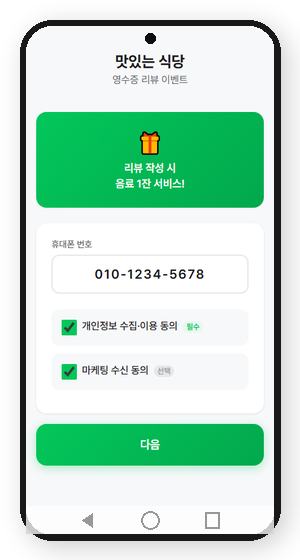
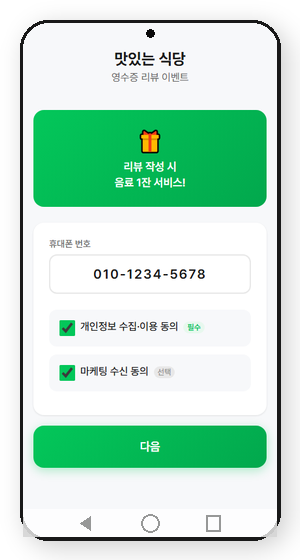
색상 통일: 플마 초록색(#03C75A)으로 변경
- primary 색상을 파란색에서 초록색으로
- 화살표 위치 조정
- screenshot-frame 배경 투명화

Claude-Session: https://claude.ai/code/session_01RtJRTMwqEprTTZv2YxTHB7

diff --git a/receipt-review.html b/receipt-review.html
@@ -12,9 +12,9 @@
 <link rel="stylesheet" href="https://fonts.googleapis.com/css2?family=Noto+Sans+KR:wght@400;500;600;700;800&display=swap">
 <style>
 :root {
-  --primary: #2563EB;
-  --primary-dark: #1d4ed8;
-  --primary-light: #eff6ff;
+  --primary: #03C75A;
+  --primary-dark: #02a54b;
+  --primary-light: #e8f8ef;
   --bg: #ffffff;
   --bg-gray: #f8f9fa;
   --text: #1a1a1a;
@@ -24,7 +24,6 @@
   --shadow-sm: 0 2px 8px rgba(0,0,0,0.04);
   --shadow-md: 0 8px 30px rgba(0,0,0,0.08);
   --shadow-lg: 0 20px 60px rgba(0,0,0,0.12);
-  --accent: #03C75A;
 }
 * { box-sizing: border-box; margin: 0; padding: 0; }
 body {
@@ -304,18 +303,17 @@ section {
 .screenshot-item::after {
   content: '→';
   position: absolute;
-  right: -15px;
-  top: 50%;
+  right: -20px;
+  top: 45%;
   transform: translateY(-50%);
   color: var(--primary);
-  font-size: 1.5rem;
+  font-size: 1.8rem;
   font-weight: bold;
+  opacity: 0.8;
 }
 .screenshot-item:last-child::after { display: none; }
 .screenshot-frame {
-  background: #1a1a1a;
-  border-radius: 20px;
-  padding: 8px;
+  background: transparent;
   margin-bottom: 12px;
   box-shadow: var(--shadow-md);
 }
